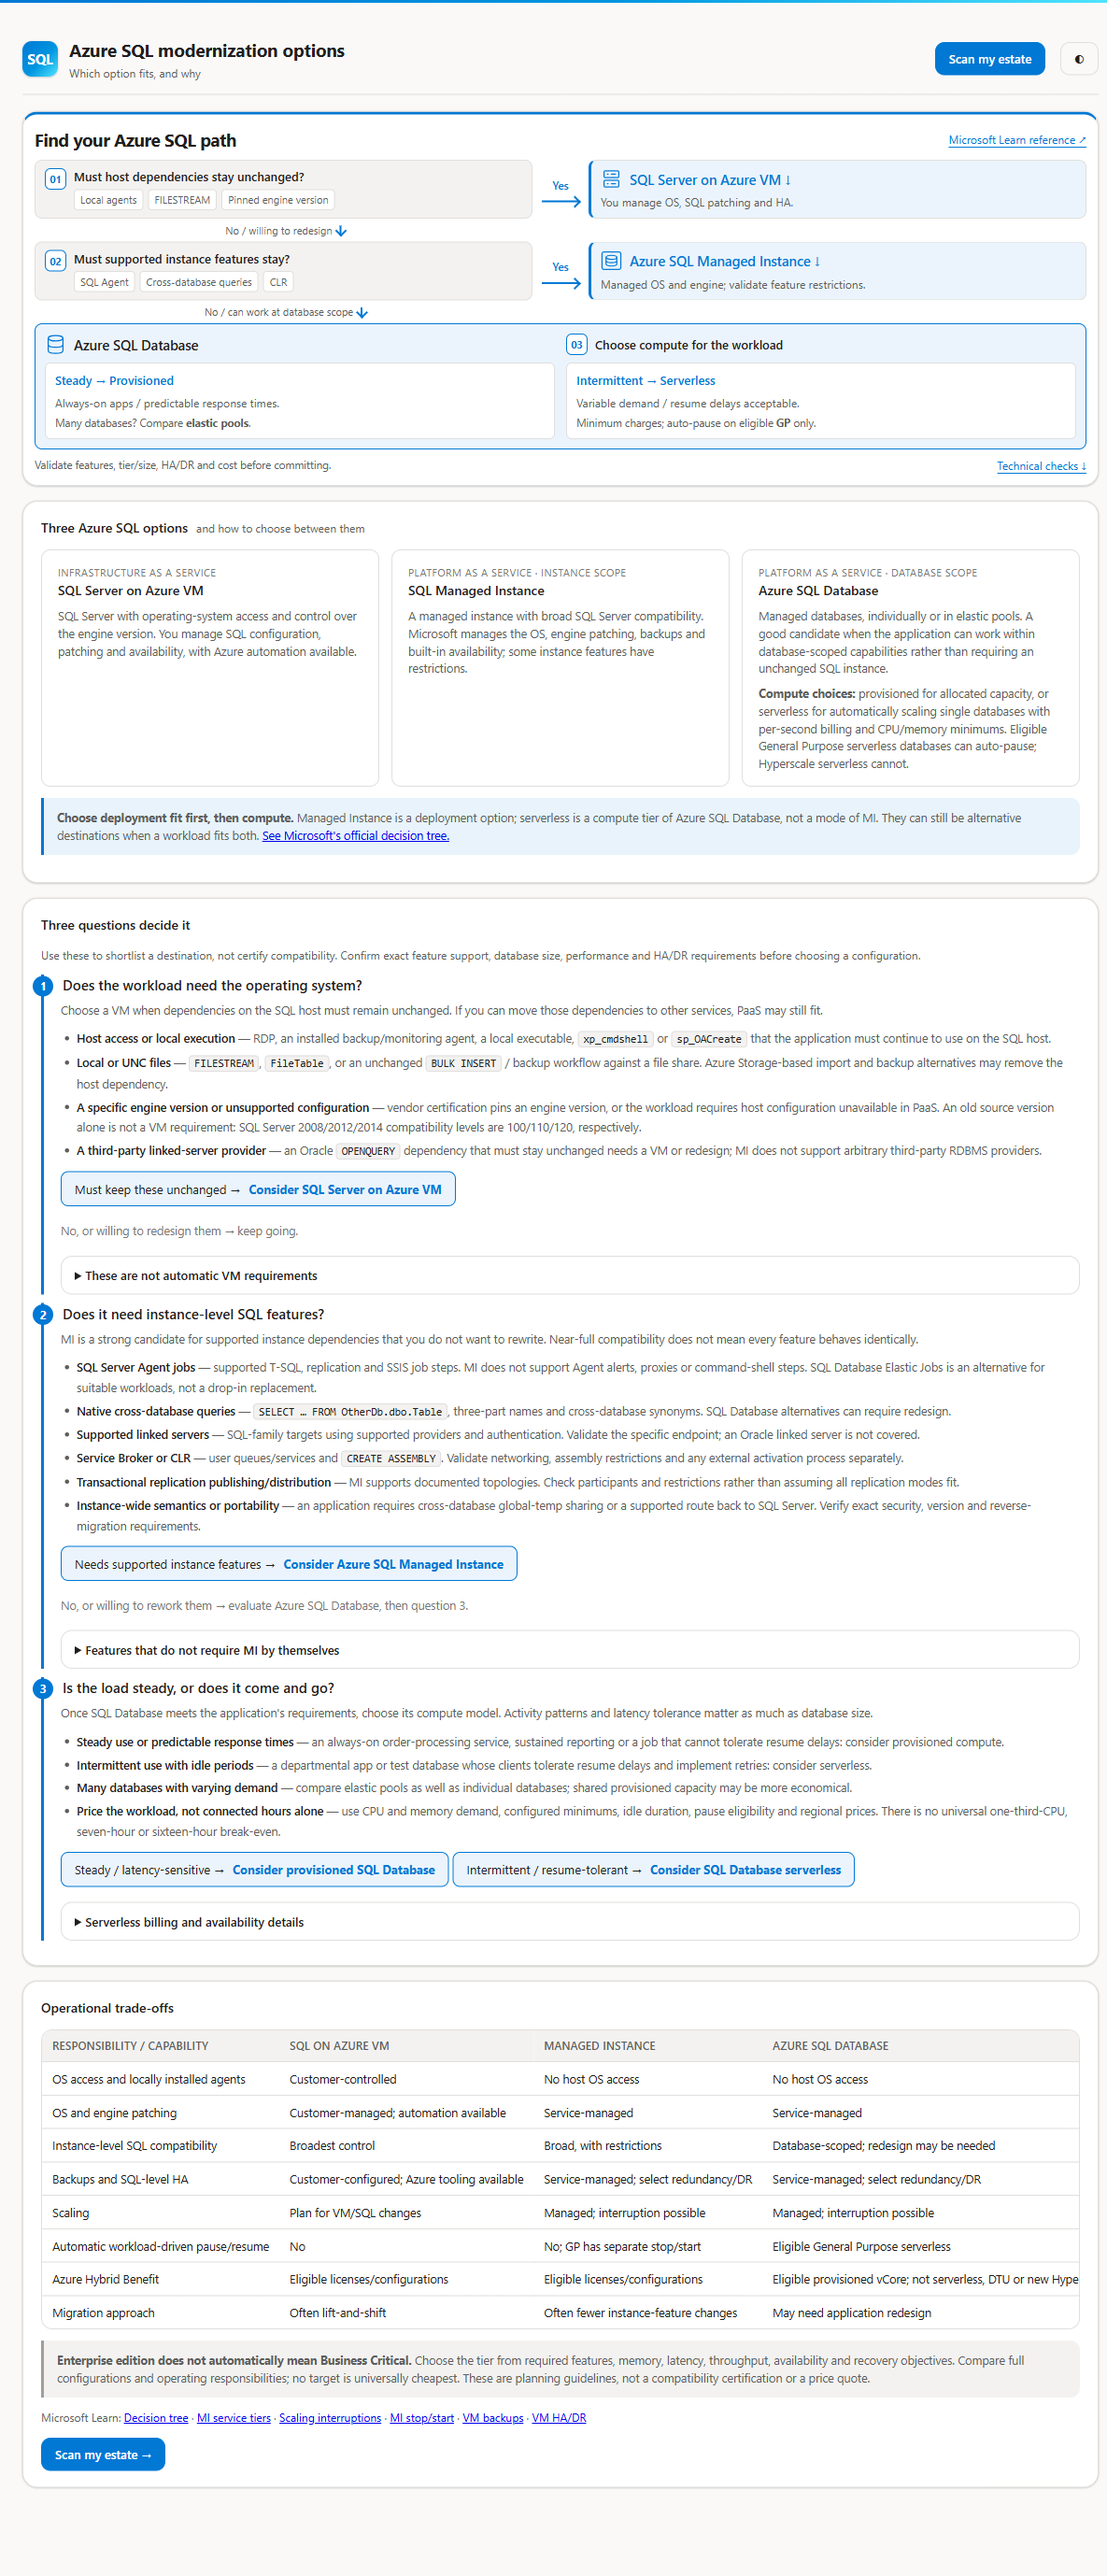
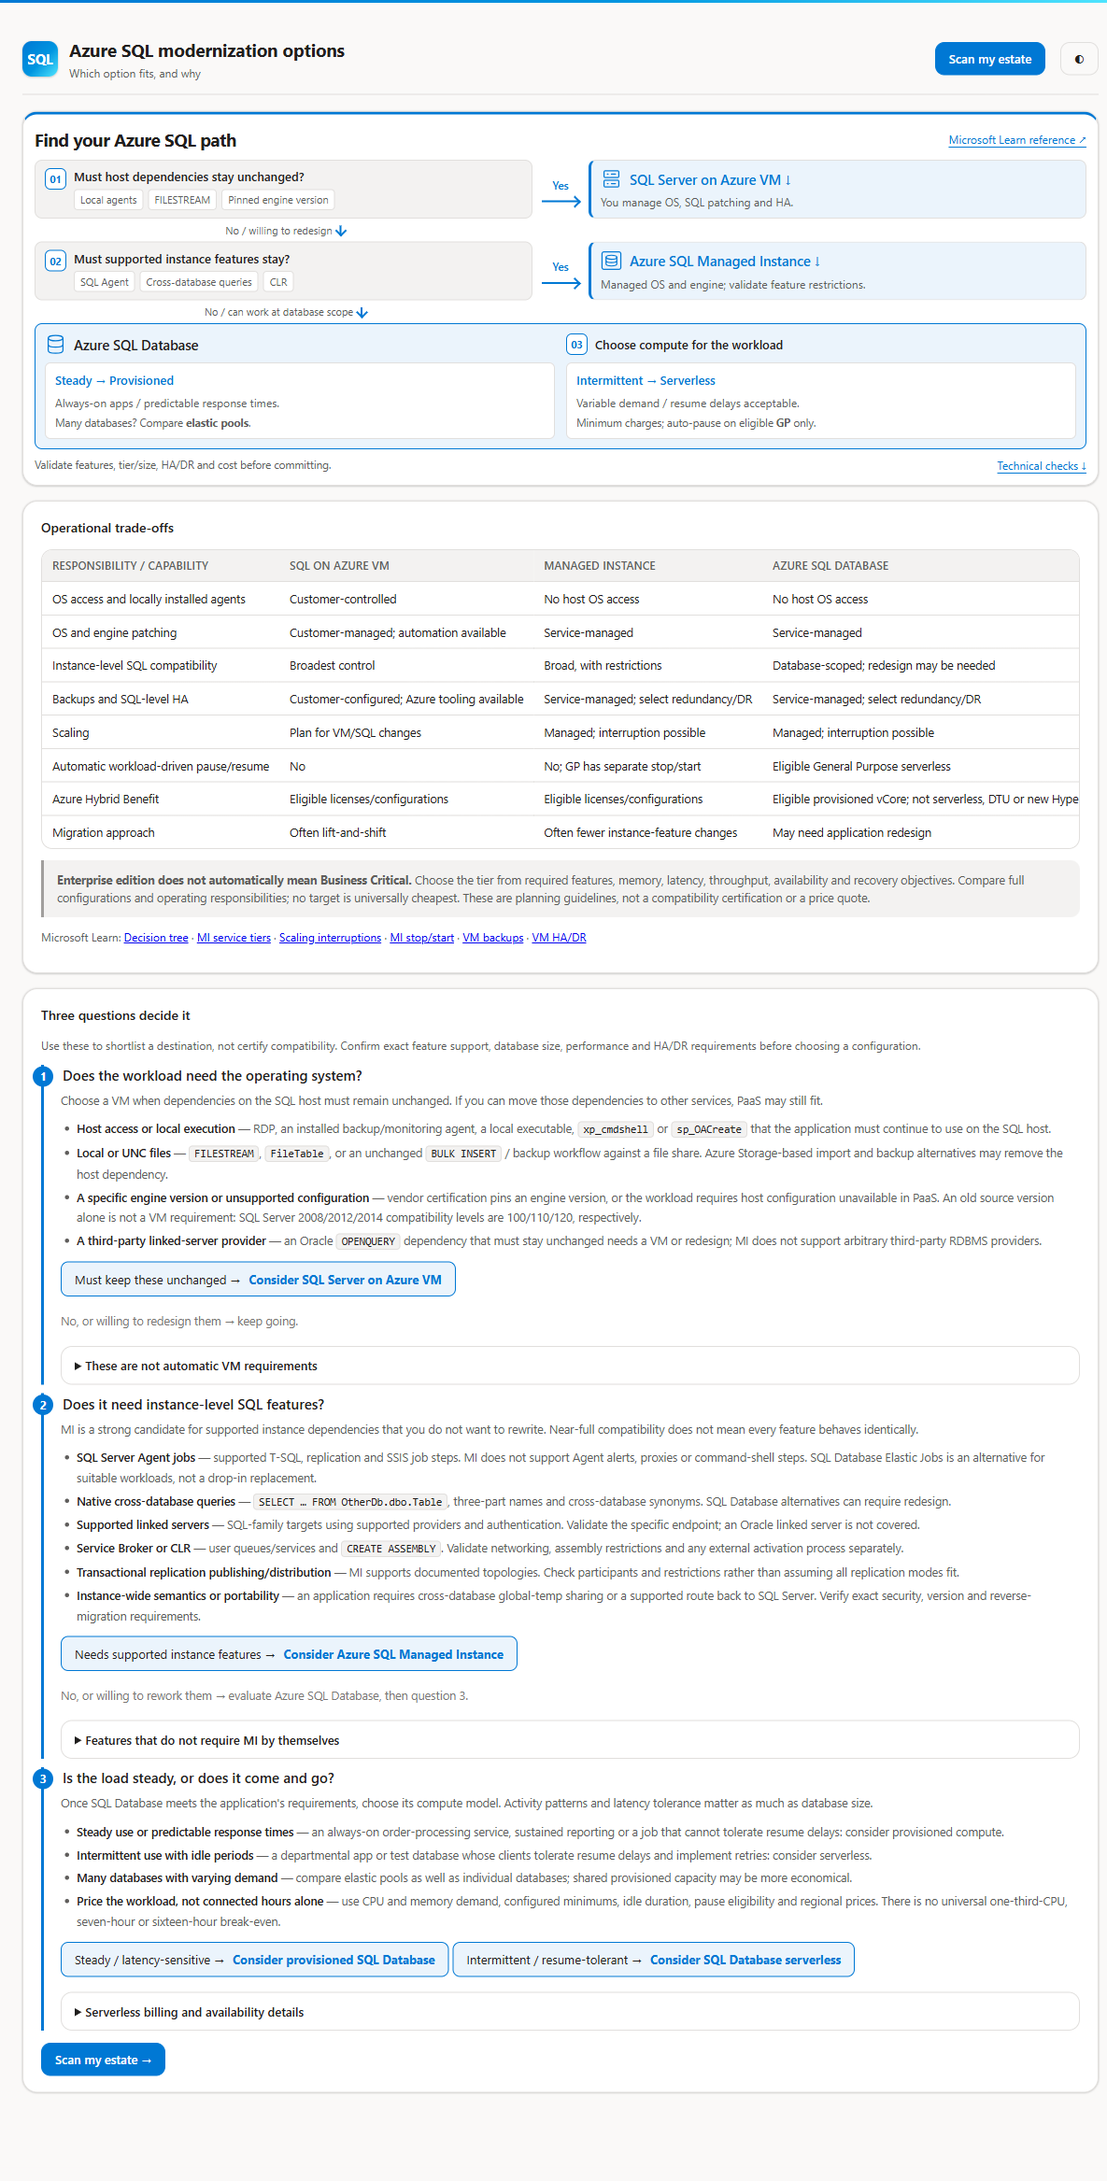
Replace introductory product cards with comparison table
Move operational trade-offs directly below the decision map; retain the detailed technical sections.

Changed region(s): [[0.0, 0.0, 0.9679, 0.9867], [0.843, 0.0, 0.9992, 0.0617]]

diff --git a/modernization-options/index.html b/modernization-options/index.html
@@ -560,36 +560,41 @@ details.acc[open] summary { margin-bottom: 9px; }
 </section>
 
 <div class="card">
-  <h3>Three Azure SQL options <span class="hint">and how to choose between them</span></h3>
-  <div class="opt-grid">
-    <div class="opt">
-      <div class="tag">Infrastructure as a Service</div>
-      <h4>SQL Server on Azure VM</h4>
-      <p>SQL Server with operating-system access and control over the engine version.
-         You manage SQL configuration, patching and availability, with Azure automation available.</p>
-    </div>
-    <div class="opt">
-      <div class="tag">Platform as a Service · instance scope</div>
-      <h4>SQL Managed Instance</h4>
-      <p>A managed instance with broad SQL Server compatibility. Microsoft manages the OS,
-         engine patching, backups and built-in availability; some instance features have restrictions.</p>
-    </div>
-    <div class="opt">
-      <div class="tag">Platform as a Service · database scope</div>
-      <h4>Azure SQL Database</h4>
-      <p>Managed databases, individually or in elastic pools. A good candidate when the application
-         can work within database-scoped capabilities rather than requiring an unchanged SQL instance.</p>
-      <p><b>Compute choices:</b> provisioned for allocated capacity, or serverless for
-         automatically scaling single databases with per-second billing and CPU/memory minimums.
-         Eligible General Purpose serverless databases can auto-pause; Hyperscale serverless cannot.</p>
-    </div>
+  <h3>Operational trade-offs</h3>
+  <div class="tbl-wrap">
+    <table>
+      <thead><tr>
+        <th class="nosort">Responsibility / capability</th>
+        <th class="nosort">SQL on Azure VM</th>
+        <th class="nosort">Managed Instance</th>
+        <th class="nosort">Azure SQL Database</th>
+      </tr></thead>
+      <tbody>
+        <tr><td>OS access and locally installed agents</td><td>Customer-controlled</td><td>No host OS access</td><td>No host OS access</td></tr>
+        <tr><td>OS and engine patching</td><td>Customer-managed; automation available</td><td>Service-managed</td><td>Service-managed</td></tr>
+        <tr><td>Instance-level SQL compatibility</td><td>Broadest control</td><td>Broad, with restrictions</td><td>Database-scoped; redesign may be needed</td></tr>
+        <tr><td>Backups and SQL-level HA</td><td>Customer-configured; Azure tooling available</td><td>Service-managed; select redundancy/DR</td><td>Service-managed; select redundancy/DR</td></tr>
+        <tr><td>Scaling</td><td>Plan for VM/SQL changes</td><td>Managed; interruption possible</td><td>Managed; interruption possible</td></tr>
+        <tr><td>Automatic workload-driven pause/resume</td><td>No</td><td>No; GP has separate stop/start</td><td>Eligible General Purpose serverless</td></tr>
+        <tr><td>Azure Hybrid Benefit</td><td>Eligible licenses/configurations</td><td>Eligible licenses/configurations</td><td>Eligible provisioned vCore; not serverless, DTU or new Hyperscale</td></tr>
+        <tr><td>Migration approach</td><td>Often lift-and-shift</td><td>Often fewer instance-feature changes</td><td>May need application redesign</td></tr>
+      </tbody>
+    </table>
   </div>
-  <div class="note info">
-    <b>Choose deployment fit first, then compute.</b> Managed Instance is a deployment option;
-    serverless is a compute tier of Azure SQL Database, not a mode of MI. They can still be
-    alternative destinations when a workload fits both.
-    <a href="https://learn.microsoft.com/en-us/azure/azure-sql/azure-sql-decision-tree?view=azuresql#decision-tree-diagram">See Microsoft's official decision tree.</a>
+  <div class="note">
+    <b>Enterprise edition does not automatically mean Business Critical.</b> Choose the tier
+    from required features, memory, latency, throughput, availability and recovery objectives.
+    Compare full configurations and operating responsibilities; no target is universally cheapest.
+    These are planning guidelines, not a compatibility certification or a price quote.
   </div>
+  <p class="sub">Microsoft Learn:
+    <a href="https://learn.microsoft.com/en-us/azure/azure-sql/azure-sql-decision-tree?view=azuresql">Decision tree</a>
+    · <a href="https://learn.microsoft.com/en-us/azure/azure-sql/managed-instance/service-tiers-managed-instance-vcore?view=azuresql">MI service tiers</a>
+    · <a href="https://learn.microsoft.com/en-us/azure/azure-sql/database/scale-resources?view=azuresql">Scaling interruptions</a>
+    · <a href="https://learn.microsoft.com/en-us/azure/azure-sql/managed-instance/instance-stop-start-how-to?view=azuresql">MI stop/start</a>
+    · <a href="https://learn.microsoft.com/en-us/azure/azure-sql/virtual-machines/windows/backup-restore?view=azuresql">VM backups</a>
+    · <a href="https://learn.microsoft.com/en-us/azure/azure-sql/virtual-machines/windows/business-continuity-high-availability-disaster-recovery-hadr-overview?view=azuresql">VM HA/DR</a>
+  </p>
 </div>
 
 <div class="card" id="technical-guidance">
@@ -720,44 +725,6 @@ details.acc[open] summary { margin-bottom: 9px; }
          · <a href="https://learn.microsoft.com/en-us/azure/azure-sql/database/high-availability-sla-local-zone-redundancy?view=azuresql">SQL Database availability</a></p>
     </details>
   </div>
-</div>
-
-<div class="card">
-  <h3>Operational trade-offs</h3>
-  <div class="tbl-wrap">
-    <table>
-      <thead><tr>
-        <th class="nosort">Responsibility / capability</th>
-        <th class="nosort">SQL on Azure VM</th>
-        <th class="nosort">Managed Instance</th>
-        <th class="nosort">Azure SQL Database</th>
-      </tr></thead>
-      <tbody>
-        <tr><td>OS access and locally installed agents</td><td>Customer-controlled</td><td>No host OS access</td><td>No host OS access</td></tr>
-        <tr><td>OS and engine patching</td><td>Customer-managed; automation available</td><td>Service-managed</td><td>Service-managed</td></tr>
-        <tr><td>Instance-level SQL compatibility</td><td>Broadest control</td><td>Broad, with restrictions</td><td>Database-scoped; redesign may be needed</td></tr>
-        <tr><td>Backups and SQL-level HA</td><td>Customer-configured; Azure tooling available</td><td>Service-managed; select redundancy/DR</td><td>Service-managed; select redundancy/DR</td></tr>
-        <tr><td>Scaling</td><td>Plan for VM/SQL changes</td><td>Managed; interruption possible</td><td>Managed; interruption possible</td></tr>
-        <tr><td>Automatic workload-driven pause/resume</td><td>No</td><td>No; GP has separate stop/start</td><td>Eligible General Purpose serverless</td></tr>
-        <tr><td>Azure Hybrid Benefit</td><td>Eligible licenses/configurations</td><td>Eligible licenses/configurations</td><td>Eligible provisioned vCore; not serverless, DTU or new Hyperscale</td></tr>
-        <tr><td>Migration approach</td><td>Often lift-and-shift</td><td>Often fewer instance-feature changes</td><td>May need application redesign</td></tr>
-      </tbody>
-    </table>
-  </div>
-  <div class="note">
-    <b>Enterprise edition does not automatically mean Business Critical.</b> Choose the tier
-    from required features, memory, latency, throughput, availability and recovery objectives.
-    Compare full configurations and operating responsibilities; no target is universally cheapest.
-    These are planning guidelines, not a compatibility certification or a price quote.
-  </div>
-  <p class="sub">Microsoft Learn:
-    <a href="https://learn.microsoft.com/en-us/azure/azure-sql/azure-sql-decision-tree?view=azuresql">Decision tree</a>
-    · <a href="https://learn.microsoft.com/en-us/azure/azure-sql/managed-instance/service-tiers-managed-instance-vcore?view=azuresql">MI service tiers</a>
-    · <a href="https://learn.microsoft.com/en-us/azure/azure-sql/database/scale-resources?view=azuresql">Scaling interruptions</a>
-    · <a href="https://learn.microsoft.com/en-us/azure/azure-sql/managed-instance/instance-stop-start-how-to?view=azuresql">MI stop/start</a>
-    · <a href="https://learn.microsoft.com/en-us/azure/azure-sql/virtual-machines/windows/backup-restore?view=azuresql">VM backups</a>
-    · <a href="https://learn.microsoft.com/en-us/azure/azure-sql/virtual-machines/windows/business-continuity-high-availability-disaster-recovery-hadr-overview?view=azuresql">VM HA/DR</a>
-  </p>
   <div style="margin-top:13px">
     <a class="btn primary" href="../">Scan my estate &rarr;</a>
   </div>

diff --git a/src/guide.partial.html b/src/guide.partial.html
@@ -77,36 +77,41 @@
 </section>
 
 <div class="card">
-  <h3>Three Azure SQL options <span class="hint">and how to choose between them</span></h3>
-  <div class="opt-grid">
-    <div class="opt">
-      <div class="tag">Infrastructure as a Service</div>
-      <h4>SQL Server on Azure VM</h4>
-      <p>SQL Server with operating-system access and control over the engine version.
-         You manage SQL configuration, patching and availability, with Azure automation available.</p>
-    </div>
-    <div class="opt">
-      <div class="tag">Platform as a Service · instance scope</div>
-      <h4>SQL Managed Instance</h4>
-      <p>A managed instance with broad SQL Server compatibility. Microsoft manages the OS,
-         engine patching, backups and built-in availability; some instance features have restrictions.</p>
-    </div>
-    <div class="opt">
-      <div class="tag">Platform as a Service · database scope</div>
-      <h4>Azure SQL Database</h4>
-      <p>Managed databases, individually or in elastic pools. A good candidate when the application
-         can work within database-scoped capabilities rather than requiring an unchanged SQL instance.</p>
-      <p><b>Compute choices:</b> provisioned for allocated capacity, or serverless for
-         automatically scaling single databases with per-second billing and CPU/memory minimums.
-         Eligible General Purpose serverless databases can auto-pause; Hyperscale serverless cannot.</p>
-    </div>
+  <h3>Operational trade-offs</h3>
+  <div class="tbl-wrap">
+    <table>
+      <thead><tr>
+        <th class="nosort">Responsibility / capability</th>
+        <th class="nosort">SQL on Azure VM</th>
+        <th class="nosort">Managed Instance</th>
+        <th class="nosort">Azure SQL Database</th>
+      </tr></thead>
+      <tbody>
+        <tr><td>OS access and locally installed agents</td><td>Customer-controlled</td><td>No host OS access</td><td>No host OS access</td></tr>
+        <tr><td>OS and engine patching</td><td>Customer-managed; automation available</td><td>Service-managed</td><td>Service-managed</td></tr>
+        <tr><td>Instance-level SQL compatibility</td><td>Broadest control</td><td>Broad, with restrictions</td><td>Database-scoped; redesign may be needed</td></tr>
+        <tr><td>Backups and SQL-level HA</td><td>Customer-configured; Azure tooling available</td><td>Service-managed; select redundancy/DR</td><td>Service-managed; select redundancy/DR</td></tr>
+        <tr><td>Scaling</td><td>Plan for VM/SQL changes</td><td>Managed; interruption possible</td><td>Managed; interruption possible</td></tr>
+        <tr><td>Automatic workload-driven pause/resume</td><td>No</td><td>No; GP has separate stop/start</td><td>Eligible General Purpose serverless</td></tr>
+        <tr><td>Azure Hybrid Benefit</td><td>Eligible licenses/configurations</td><td>Eligible licenses/configurations</td><td>Eligible provisioned vCore; not serverless, DTU or new Hyperscale</td></tr>
+        <tr><td>Migration approach</td><td>Often lift-and-shift</td><td>Often fewer instance-feature changes</td><td>May need application redesign</td></tr>
+      </tbody>
+    </table>
   </div>
-  <div class="note info">
-    <b>Choose deployment fit first, then compute.</b> Managed Instance is a deployment option;
-    serverless is a compute tier of Azure SQL Database, not a mode of MI. They can still be
-    alternative destinations when a workload fits both.
-    <a href="https://learn.microsoft.com/en-us/azure/azure-sql/azure-sql-decision-tree?view=azuresql#decision-tree-diagram">See Microsoft's official decision tree.</a>
+  <div class="note">
+    <b>Enterprise edition does not automatically mean Business Critical.</b> Choose the tier
+    from required features, memory, latency, throughput, availability and recovery objectives.
+    Compare full configurations and operating responsibilities; no target is universally cheapest.
+    These are planning guidelines, not a compatibility certification or a price quote.
   </div>
+  <p class="sub">Microsoft Learn:
+    <a href="https://learn.microsoft.com/en-us/azure/azure-sql/azure-sql-decision-tree?view=azuresql">Decision tree</a>
+    · <a href="https://learn.microsoft.com/en-us/azure/azure-sql/managed-instance/service-tiers-managed-instance-vcore?view=azuresql">MI service tiers</a>
+    · <a href="https://learn.microsoft.com/en-us/azure/azure-sql/database/scale-resources?view=azuresql">Scaling interruptions</a>
+    · <a href="https://learn.microsoft.com/en-us/azure/azure-sql/managed-instance/instance-stop-start-how-to?view=azuresql">MI stop/start</a>
+    · <a href="https://learn.microsoft.com/en-us/azure/azure-sql/virtual-machines/windows/backup-restore?view=azuresql">VM backups</a>
+    · <a href="https://learn.microsoft.com/en-us/azure/azure-sql/virtual-machines/windows/business-continuity-high-availability-disaster-recovery-hadr-overview?view=azuresql">VM HA/DR</a>
+  </p>
 </div>
 
 <div class="card" id="technical-guidance">
@@ -237,44 +242,6 @@
          · <a href="https://learn.microsoft.com/en-us/azure/azure-sql/database/high-availability-sla-local-zone-redundancy?view=azuresql">SQL Database availability</a></p>
     </details>
   </div>
-</div>
-
-<div class="card">
-  <h3>Operational trade-offs</h3>
-  <div class="tbl-wrap">
-    <table>
-      <thead><tr>
-        <th class="nosort">Responsibility / capability</th>
-        <th class="nosort">SQL on Azure VM</th>
-        <th class="nosort">Managed Instance</th>
-        <th class="nosort">Azure SQL Database</th>
-      </tr></thead>
-      <tbody>
-        <tr><td>OS access and locally installed agents</td><td>Customer-controlled</td><td>No host OS access</td><td>No host OS access</td></tr>
-        <tr><td>OS and engine patching</td><td>Customer-managed; automation available</td><td>Service-managed</td><td>Service-managed</td></tr>
-        <tr><td>Instance-level SQL compatibility</td><td>Broadest control</td><td>Broad, with restrictions</td><td>Database-scoped; redesign may be needed</td></tr>
-        <tr><td>Backups and SQL-level HA</td><td>Customer-configured; Azure tooling available</td><td>Service-managed; select redundancy/DR</td><td>Service-managed; select redundancy/DR</td></tr>
-        <tr><td>Scaling</td><td>Plan for VM/SQL changes</td><td>Managed; interruption possible</td><td>Managed; interruption possible</td></tr>
-        <tr><td>Automatic workload-driven pause/resume</td><td>No</td><td>No; GP has separate stop/start</td><td>Eligible General Purpose serverless</td></tr>
-        <tr><td>Azure Hybrid Benefit</td><td>Eligible licenses/configurations</td><td>Eligible licenses/configurations</td><td>Eligible provisioned vCore; not serverless, DTU or new Hyperscale</td></tr>
-        <tr><td>Migration approach</td><td>Often lift-and-shift</td><td>Often fewer instance-feature changes</td><td>May need application redesign</td></tr>
-      </tbody>
-    </table>
-  </div>
-  <div class="note">
-    <b>Enterprise edition does not automatically mean Business Critical.</b> Choose the tier
-    from required features, memory, latency, throughput, availability and recovery objectives.
-    Compare full configurations and operating responsibilities; no target is universally cheapest.
-    These are planning guidelines, not a compatibility certification or a price quote.
-  </div>
-  <p class="sub">Microsoft Learn:
-    <a href="https://learn.microsoft.com/en-us/azure/azure-sql/azure-sql-decision-tree?view=azuresql">Decision tree</a>
-    · <a href="https://learn.microsoft.com/en-us/azure/azure-sql/managed-instance/service-tiers-managed-instance-vcore?view=azuresql">MI service tiers</a>
-    · <a href="https://learn.microsoft.com/en-us/azure/azure-sql/database/scale-resources?view=azuresql">Scaling interruptions</a>
-    · <a href="https://learn.microsoft.com/en-us/azure/azure-sql/managed-instance/instance-stop-start-how-to?view=azuresql">MI stop/start</a>
-    · <a href="https://learn.microsoft.com/en-us/azure/azure-sql/virtual-machines/windows/backup-restore?view=azuresql">VM backups</a>
-    · <a href="https://learn.microsoft.com/en-us/azure/azure-sql/virtual-machines/windows/business-continuity-high-availability-disaster-recovery-hadr-overview?view=azuresql">VM HA/DR</a>
-  </p>
   <div style="margin-top:13px">
     <button class="primary" id="btnGuideBack">Scan my estate</button>
   </div>
